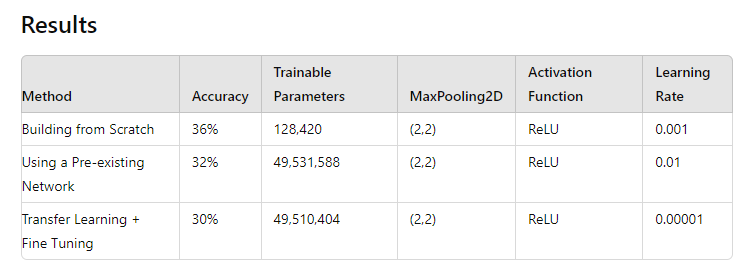
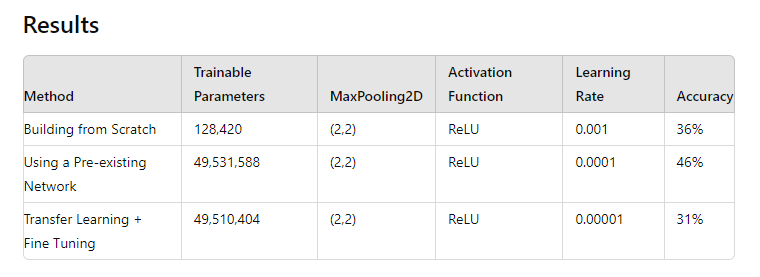
updated tensorboard image

diff --git a/README.md b/README.md
@@ -94,6 +94,11 @@ Data augmentation techniques were applied to improve model generalization. These
 
 Learning rate scheduling was used to adjust the learning rates dynamically during training. By reducing the learning rate at predefined intervals or based on performance, the model can converge more effectively, balancing between rapid learning and fine-tuning.
 
+**TensorBoard Visualization**
+TensorBoard is a visualization toolkit for monitoring and debugging deep learning models. It provides real-time insights into metrics like loss, accuracy, and training progress. Users can track changes, compare experiments, and understand model performance, helping to optimize and improve training processes effectively.
+
+![alt text](https://github.com/vasanthgx/cifar100/blob/main/images/tb1.png)
+
 ## Results
 
 ![alt text](https://github.com/vasanthgx/cifar100/blob/main/images/table.png)
@@ -102,7 +107,7 @@ Learning rate scheduling was used to adjust the learning rates dynamically durin
 
 
 
-The results indicate varying levels of performance across different methods for classifying images from the CIFAR-100 dataset. Building a CNN from scratch achieved the highest accuracy at 36%, showcasing the potential of custom architectures tailored to specific tasks. Using a pre-existing network with pretrained weights followed closely with 32%, demonstrating the efficiency of leveraging learned features. However, transfer learning combined with fine-tuning showed slightly lower accuracy at 30%, suggesting the challenge of adapting generic features to a more specific dataset context.
+The results indicate varying levels of performance across different methods for classifying images from the CIFAR-100 dataset. Using a pre-existing network with pretrained weights achieved the highest accuracy at 46%, demonstrating the efficiency of leveraging learned features. Building a CNN from scratch followed with an accuracy of 36%, showcasing the potential of custom architectures tailored to specific tasks. Transfer learning combined with fine-tuning showed slightly lower accuracy at 31%, suggesting the challenge of adapting generic features to a more specific dataset context.
 
 **Improving Results**
 
